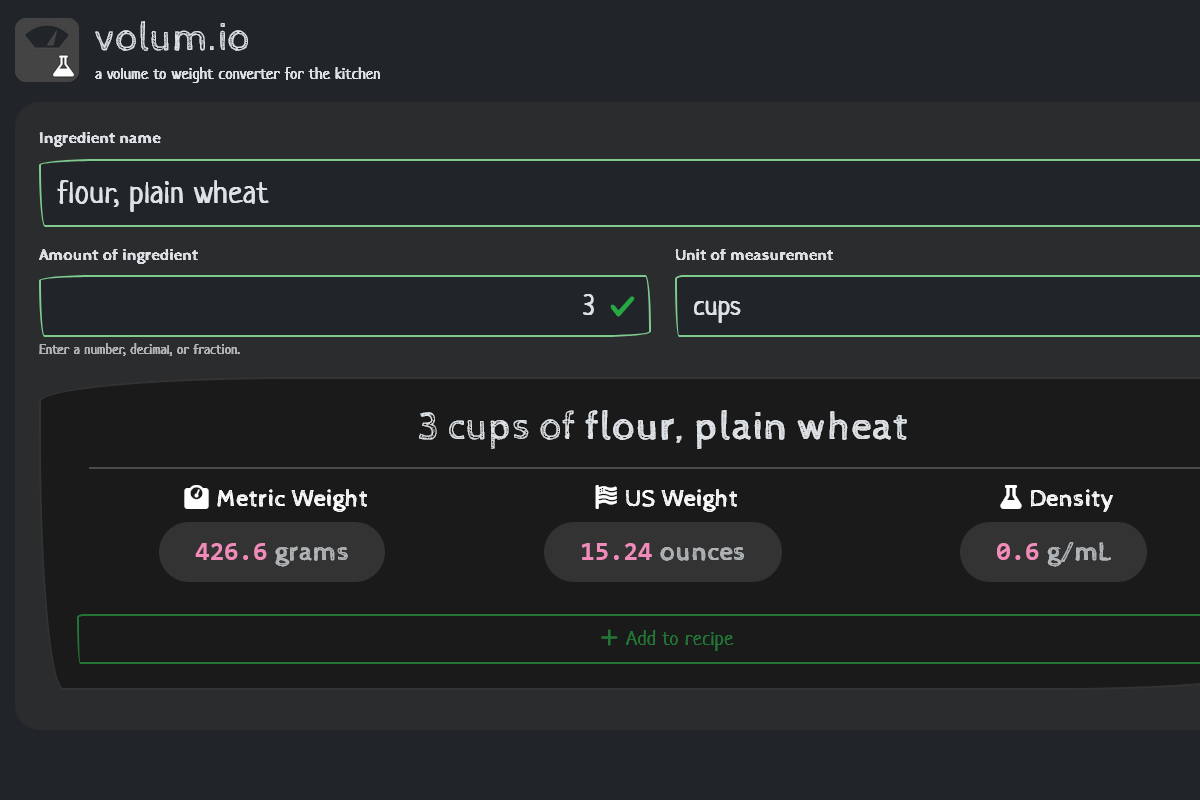
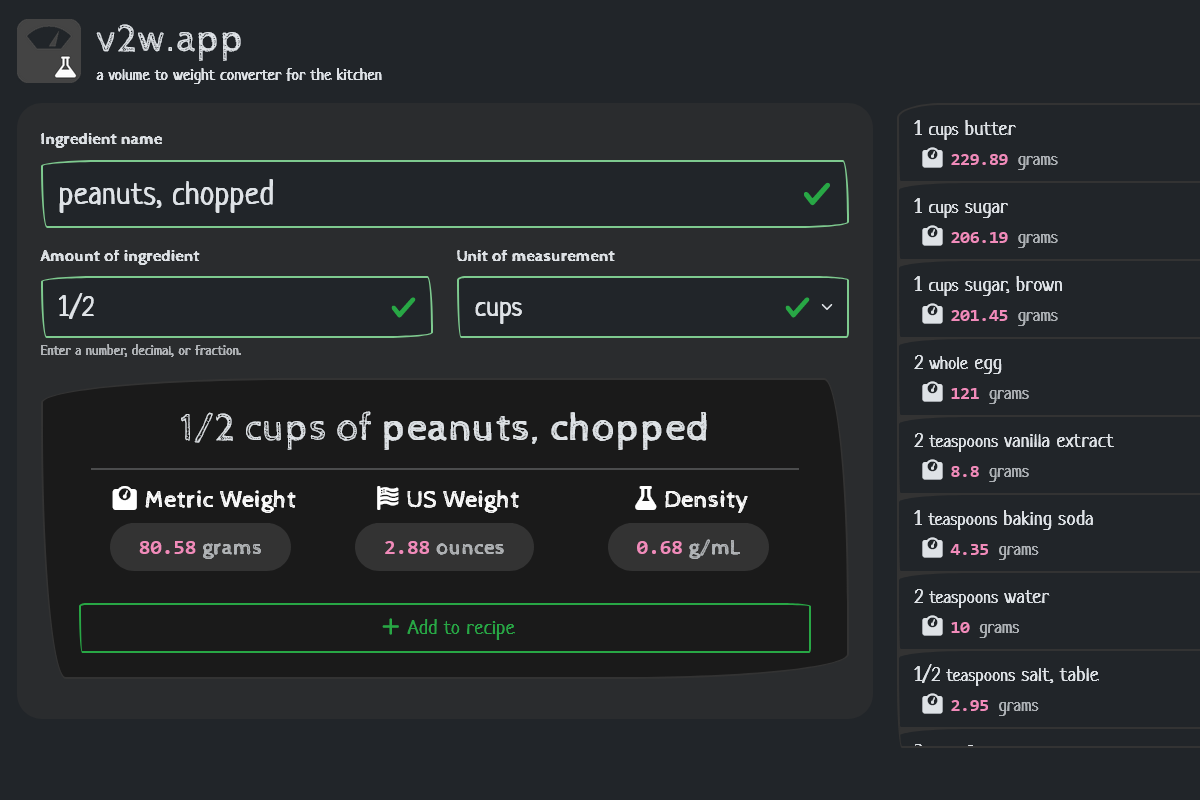
update v2w name and screenshot

diff --git a/src/components/Portfolio.tsx b/src/components/Portfolio.tsx
@@ -82,7 +82,7 @@ function Portfolio({ id }: { id: string }) {
       },
     },
     {
-      title: "volum.io",
+      title: "v2w.app",
       url: "https://v2w.app",
       imageUrl: v2wThumbnail,
       tags: ["React", "TypeScript", "Vite", "GitHub Pages"],
